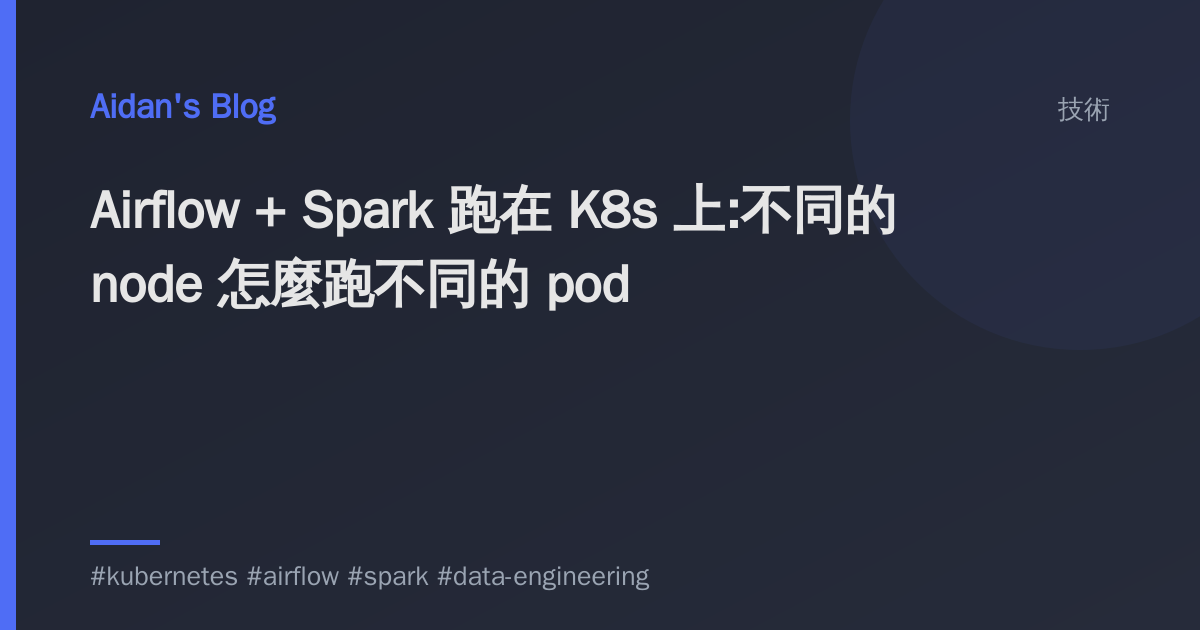
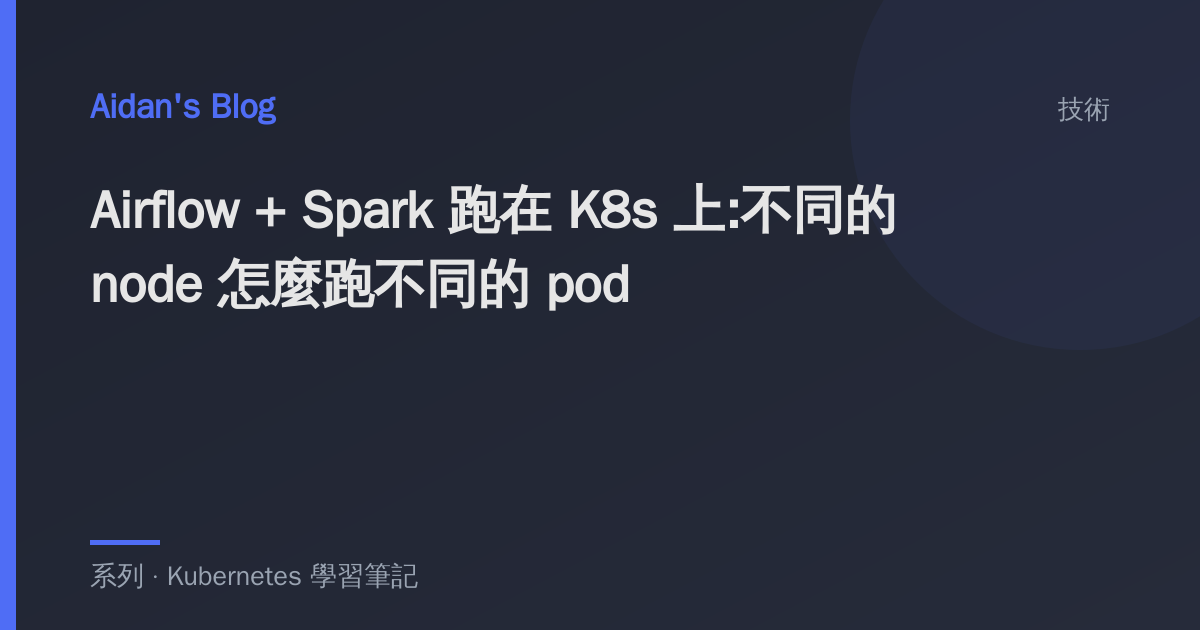
新增 Kubernetes 學習筆記系列 + 第 1 篇
- 開新系列「Kubernetes 學習筆記」,定位:給後端/資料工程師、以
  reconcile loop 為貫穿主軸
- 第 1 篇 k8s-intro:K8s 是什麼——它解決什麼問題,以及核心觀念
  宣告式期望狀態 + reconcile loop(招牌圖),配叢集大腦/工人解剖圖
- 把既有的 airflow-spark-on-k8s 收進系列當 capstone(seriesOrder 8)

Claude-Session: https://claude.ai/code/session_015z1sAY7uxFenR3YNaHXSMS

Changed region(s): [[0.0617, 0.8746, 0.555, 0.9349]]

diff --git a/src/content/blog/k8s-intro.md b/src/content/blog/k8s-intro.md
@@ -1,0 +1,146 @@
+---
+title: "Kubernetes 是什麼:從「跑容器」到「宣告你要的狀態」"
+date: 2026-07-07
+category: tech
+description: "K8s 難學,常常是因為先背 API 再學觀念。這篇從頭講:它到底解決什麼問題,以及讓一切都串起來的那一個核心觀念——宣告式的期望狀態 + reconcile loop。這是整個系列的地基。"
+tags:
+  - kubernetes
+  - concept
+series: "Kubernetes 學習筆記"
+seriesOrder: 1
+comments: true
+draft: false
+---
+很多人學 Kubernetes(K8s)覺得難,是因為一上來就被 `kubectl`、一堆 YAML 欄位、幾十種資源名詞淹沒。但其實 K8s 只有**一個核心觀念**,抓住它,後面全部都是同一句話的變形。這個系列就從這個觀念開始 —— **宣告式的期望狀態,加上一個不斷把現實拉過去的 reconcile loop。**
+
+## 先問:它到底解決什麼問題
+
+假設你已經會用 Docker,手上有一個容器化的服務。上線時你會發現一堆麻煩事:
+
+- 容器掛了,誰**自動重啟**它?
+- 流量變大,誰**多開幾個**、流量小又**收回來**?
+- 某台機器整台壞了,上面的容器**搬去哪**?
+- 要出新版,怎麼**不中斷服務**滾動更新、出包了怎麼**回滾**?
+
+手動一個個 `docker run`、壞了 SSH 上去救,幾台還行,幾十台就是災難。**K8s 就是那個幫你顧容器的「容器編排器」** —— 把「一堆容器要跑在一堆機器上、還要活著、要擴縮、要換版」這件事自動化。
+
+## 核心觀念:宣告期望,讓它自己收斂
+
+但 K8s 真正聰明的地方,不是「功能多」,而是**它達成這些的方式**。你不會去下「重啟這個容器」「在那台機器開一個」這種一步步的指令;你只**宣告你想要的最終狀態**,K8s 自己想辦法達成、而且**持續維持**:
+
+<figure style="margin:1.5rem 0;text-align:center;">
+  <svg viewBox="0 0 560 240" role="img" aria-label="reconcile loop:你宣告期望狀態(要 3 個 Pod),Controller 讀期望、觀察實際狀態(現在 2 個),有落差就動作(建 1 個),不斷把實際拉向期望" style="width:100%;max-width:620px;height:auto;margin:0 auto;">
+    <defs><marker id="rl" markerWidth="9" markerHeight="9" refX="7" refY="3" orient="auto"><path d="M0,0 L0,6 L8,3 z" fill="#9aa4b2"/></marker></defs>
+    <rect x="24" y="92" width="140" height="58" rx="8" fill="#262b3a" stroke="#4f6df5" stroke-width="1.6"/>
+    <text x="94" y="116" fill="#e6e6e6" font-size="11.5" text-anchor="middle">期望狀態</text>
+    <text x="94" y="134" fill="#9aa4b2" font-size="9" text-anchor="middle">你宣告:replicas = 3</text>
+    <rect x="210" y="86" width="140" height="70" rx="8" fill="#262b3a" stroke="#4f6df5" stroke-width="1.9"/>
+    <text x="280" y="112" fill="#4f6df5" font-size="12" font-weight="bold" text-anchor="middle">Controller</text>
+    <text x="280" y="130" fill="#9aa4b2" font-size="9" text-anchor="middle">控制迴圈</text>
+    <text x="280" y="144" fill="#9aa4b2" font-size="9" text-anchor="middle">比較 & 修正</text>
+    <rect x="396" y="92" width="140" height="58" rx="8" fill="#262b3a" stroke="#54b890" stroke-width="1.6"/>
+    <text x="466" y="116" fill="#e6e6e6" font-size="11.5" text-anchor="middle">實際狀態</text>
+    <text x="466" y="134" fill="#9aa4b2" font-size="9" text-anchor="middle">現在只有 2 個</text>
+    <line x1="164" y1="121" x2="208" y2="121" stroke="#9aa4b2" stroke-width="1.3" marker-end="url(#rl)"/>
+    <text x="186" y="112" fill="#9aa4b2" font-size="8.5" text-anchor="middle">① 讀期望</text>
+    <line x1="350" y1="110" x2="394" y2="110" stroke="#9aa4b2" stroke-width="1.3" marker-end="url(#rl)"/>
+    <text x="372" y="102" fill="#9aa4b2" font-size="8.5" text-anchor="middle">② 動作</text>
+    <line x1="394" y1="136" x2="350" y2="136" stroke="#9aa4b2" stroke-width="1.3" marker-end="url(#rl)"/>
+    <text x="372" y="150" fill="#9aa4b2" font-size="8.5" text-anchor="middle">③ 觀察</text>
+    <text x="466" y="176" fill="#54b890" font-size="9" text-anchor="middle">2 → 建 1 個 → 3 ✓</text>
+    <text x="280" y="212" fill="#9aa4b2" font-size="10" text-anchor="middle">reconcile loop:不斷比較期望與實際,有落差就修正 —— 這就是 K8s 的靈魂</text>
+  </svg>
+  <figcaption style="font-size:.85rem;color:#9aa4b2;margin-top:.4rem;">你只宣告「我要 3 個」;Controller 持續觀察實際、發現落差就動手補齊。容器掛一個就補一個、機器壞了就換地方開 —— 全是這個迴圈的結果</figcaption>
+</figure>
+
+**這個 reconcile loop 就是整個 K8s 的靈魂。** 之後你會遇到的 Deployment、Service、每一種資源,背後都是同一件事:你宣告一個期望,某個 controller 不斷地把現實拉過去。這個系列每一篇,我都會回扣這句話。
+
+## 命令式 vs 宣告式:為什麼這個差別很重要
+
+換個角度看這個轉變:
+
+| | 命令式(過去) | 宣告式(K8s) |
+|---|---|---|
+| 你做什麼 | 下一步步的指令:開這個、停那個 | 描述**想要的結果**:我要 3 個、跑這版 |
+| 誰維持狀態 | 你(壞了要自己救) | 系統(自動收斂、自我修復) |
+| 可重複 | 難(指令有先後、有副作用) | 冪等(套幾次結果一樣) |
+| 能版控嗎 | 難 | **可以**:一份 YAML 就是你的期望 |
+
+宣告式最大的紅利,是**你的「期望」變成一份可以版控的檔案**。整個叢集該長什麼樣,寫在 Git 裡、能 review、能回溯 —— 這就是 GitOps 的基礎。
+
+一份最小的「期望」長這樣:
+
+```yaml
+apiVersion: apps/v1
+kind: Deployment
+metadata:
+  name: web
+spec:
+  replicas: 3                # 我要 3 個
+  selector:
+    matchLabels: { app: web }
+  template:
+    metadata:
+      labels: { app: web }
+    spec:
+      containers:
+        - name: web
+          image: myrepo/web:1.0   # 跑這個映像檔
+```
+
+然後 `kubectl apply -f web.yaml`。你沒有叫它「開三個容器」,你只說「我要 3 個 `web:1.0`」—— 剩下的交給 reconcile loop。
+
+## 叢集長什麼樣:大腦與工人
+
+那「Controller 不斷收斂」這件事發生在哪?K8s 叢集分成兩半:
+
+<figure style="margin:1.5rem 0;text-align:center;">
+  <svg viewBox="0 0 600 270" role="img" aria-label="K8s 叢集分兩半:Control Plane 是大腦,含 API Server、Scheduler、Controller Manager、etcd;下面是 Worker Node,每個跑 kubelet 與 Pod。你用 kubectl apply 把期望送給 API Server" style="width:100%;max-width:660px;height:auto;margin:0 auto;">
+    <defs><marker id="ca" markerWidth="9" markerHeight="9" refX="7" refY="3" orient="auto"><path d="M0,0 L0,6 L8,3 z" fill="#9aa4b2"/></marker></defs>
+    <text x="300" y="16" fill="#9aa4b2" font-size="9.5" text-anchor="middle">你:kubectl apply(宣告期望的 YAML)</text>
+    <line x1="300" y1="22" x2="300" y2="40" stroke="#9aa4b2" stroke-width="1.3" marker-end="url(#ca)"/>
+    <rect x="30" y="42" width="540" height="86" rx="10" fill="none" stroke="#4f6df5" stroke-width="1.6"/>
+    <text x="80" y="60" fill="#4f6df5" font-size="10.5" font-weight="bold" text-anchor="middle">Control Plane · 大腦</text>
+    <rect x="44" y="70" width="118" height="44" rx="6" fill="#262b3a" stroke="#4f6df5" stroke-width="1.3"/><text x="103" y="90" fill="#e6e6e6" font-size="9.5" text-anchor="middle">API Server</text><text x="103" y="104" fill="#9aa4b2" font-size="8" text-anchor="middle">唯一入口</text>
+    <rect x="172" y="70" width="118" height="44" rx="6" fill="#262b3a" stroke="#4f6df5" stroke-width="1.3"/><text x="231" y="90" fill="#e6e6e6" font-size="9.5" text-anchor="middle">Scheduler</text><text x="231" y="104" fill="#9aa4b2" font-size="8" text-anchor="middle">pod 排到哪</text>
+    <rect x="300" y="70" width="138" height="44" rx="6" fill="#262b3a" stroke="#4f6df5" stroke-width="1.3"/><text x="369" y="90" fill="#e6e6e6" font-size="9.5" text-anchor="middle">Controller Mgr</text><text x="369" y="104" fill="#9aa4b2" font-size="8" text-anchor="middle">跑 reconcile loop</text>
+    <rect x="448" y="70" width="108" height="44" rx="6" fill="#262b3a" stroke="#9aa4b2" stroke-width="1.3"/><text x="502" y="90" fill="#e6e6e6" font-size="9.5" text-anchor="middle">etcd</text><text x="502" y="104" fill="#9aa4b2" font-size="8" text-anchor="middle">狀態資料庫</text>
+    <line x1="300" y1="128" x2="120" y2="168" stroke="#9aa4b2" stroke-width="1.2" marker-end="url(#ca)"/>
+    <line x1="300" y1="128" x2="300" y2="168" stroke="#9aa4b2" stroke-width="1.2" marker-end="url(#ca)"/>
+    <line x1="300" y1="128" x2="480" y2="168" stroke="#9aa4b2" stroke-width="1.2" marker-end="url(#ca)"/>
+    <rect x="34" y="170" width="172" height="86" rx="8" fill="none" stroke="#3a4154" stroke-width="1.4"/>
+    <text x="120" y="188" fill="#e6e6e6" font-size="10" text-anchor="middle">Worker Node</text>
+    <text x="120" y="202" fill="#9aa4b2" font-size="8" text-anchor="middle">kubelet</text>
+    <circle cx="95" cy="228" r="12" fill="#262b3a" stroke="#4f6df5" stroke-width="1.4"/><text x="95" y="231" fill="#9aa4b2" font-size="8" text-anchor="middle">Pod</text>
+    <circle cx="145" cy="228" r="12" fill="#262b3a" stroke="#4f6df5" stroke-width="1.4"/><text x="145" y="231" fill="#9aa4b2" font-size="8" text-anchor="middle">Pod</text>
+    <rect x="214" y="170" width="172" height="86" rx="8" fill="none" stroke="#3a4154" stroke-width="1.4"/>
+    <text x="300" y="188" fill="#e6e6e6" font-size="10" text-anchor="middle">Worker Node</text>
+    <text x="300" y="202" fill="#9aa4b2" font-size="8" text-anchor="middle">kubelet</text>
+    <circle cx="300" cy="228" r="12" fill="#262b3a" stroke="#4f6df5" stroke-width="1.4"/><text x="300" y="231" fill="#9aa4b2" font-size="8" text-anchor="middle">Pod</text>
+    <rect x="394" y="170" width="172" height="86" rx="8" fill="none" stroke="#3a4154" stroke-width="1.4"/>
+    <text x="480" y="188" fill="#e6e6e6" font-size="10" text-anchor="middle">Worker Node</text>
+    <text x="480" y="202" fill="#9aa4b2" font-size="8" text-anchor="middle">kubelet</text>
+    <circle cx="455" cy="228" r="12" fill="#262b3a" stroke="#4f6df5" stroke-width="1.4"/><text x="455" y="231" fill="#9aa4b2" font-size="8" text-anchor="middle">Pod</text>
+    <circle cx="505" cy="228" r="12" fill="#262b3a" stroke="#4f6df5" stroke-width="1.4"/><text x="505" y="231" fill="#9aa4b2" font-size="8" text-anchor="middle">Pod</text>
+  </svg>
+  <figcaption style="font-size:.85rem;color:#9aa4b2;margin-top:.4rem;">Control Plane 是大腦(決定要跑什麼、排到哪、持續修正落差,狀態全存 etcd);Worker Node 是工人,每個跑一個 kubelet 照顧上面的 Pod</figcaption>
+</figure>
+
+- **Control Plane(大腦)**:`kubectl apply` 送到唯一入口 **API Server**;**Scheduler** 決定新 pod 排到哪台;**Controller Manager** 跑那些 reconcile loop;**etcd** 存下整個叢集的狀態。
+- **Worker Node(工人)**:真正跑你 Pod 的機器,每台一個 **kubelet** 負責照顧本機的 pod。
+
+這些元件的細節不用現在背 —— **Pod、Node、Scheduler** 是[[airflow-spark-on-k8s|下一篇]]的主角。這篇你只要先把那個迴圈刻進腦子。
+
+## 反思
+
+### K8s 難,常常是因為學的順序反了
+
+我看很多人(包括當年的我)學 K8s 是**從 API 背起** —— 背 `kubectl` 指令、背 YAML 欄位、背一堆資源類型,結果學得很痛、又串不起來。後來我才想通:**應該先抓住那個 reconcile loop,再回頭看每個資源。** 一旦你知道「所有東西都是:你宣告期望、controller 把現實拉過去」,那些看似無關的名詞——Deployment、ReplicaSet、Service、HPA——瞬間都變成同一個模式的不同套用。**先有心智模型,細節才掛得上去**,這跟我讀 [[fode-2|資料工程生命週期]]的體會一模一樣。
+
+### 「宣告式 + 版控」是我最欣賞 K8s 的地方
+
+真正讓我覺得 K8s 漂亮的,不是它能自動重啟容器,而是**它把「叢集該長什麼樣」變成一份可版控的檔案**。整個系統的期望狀態寫在 Git 裡、能 review、能回溯、能一鍵重建 —— 這跟 [[dbt-intro|dbt]] 把資料轉換變成版控程式碼、是同一種工程紀律的勝利:**把「會變的東西」從人的腦袋與臨時操作裡,搬進可追蹤的宣告。** 命令式的世界靠「某個人記得怎麼救」,宣告式的世界靠「一份大家都看得到的期望」。
+
+### 但別為了潮而上 K8s
+
+最後照例潑冷水:K8s 很強,但它本身是一座**要人維運的大山**。服務還只有一兩個、團隊也沒有 K8s 底子時,硬上只是把「顧容器」的麻煩換成「顧容器 + 顧 K8s」的雙倍麻煩。我的順位一直是 [[pain-before-power|先確認痛點,再上重武器]]:先問「我是不是真的多到、雜到需要一個編排器」,再決定要不要走進這座山。看懂它的價值,和判斷自己該不該用它,是兩件事 —— 這個系列幫你做到前者,後者的判斷還是得回到你的痛點。

diff --git a/src/content/blog/airflow-spark-on-k8s.md b/src/content/blog/airflow-spark-on-k8s.md
@@ -7,6 +7,8 @@ tags:
   - airflow
   - spark
   - data-engineering
+series: "Kubernetes 學習筆記"
+seriesOrder: 8
 comments: true
 draft: false
 ---
